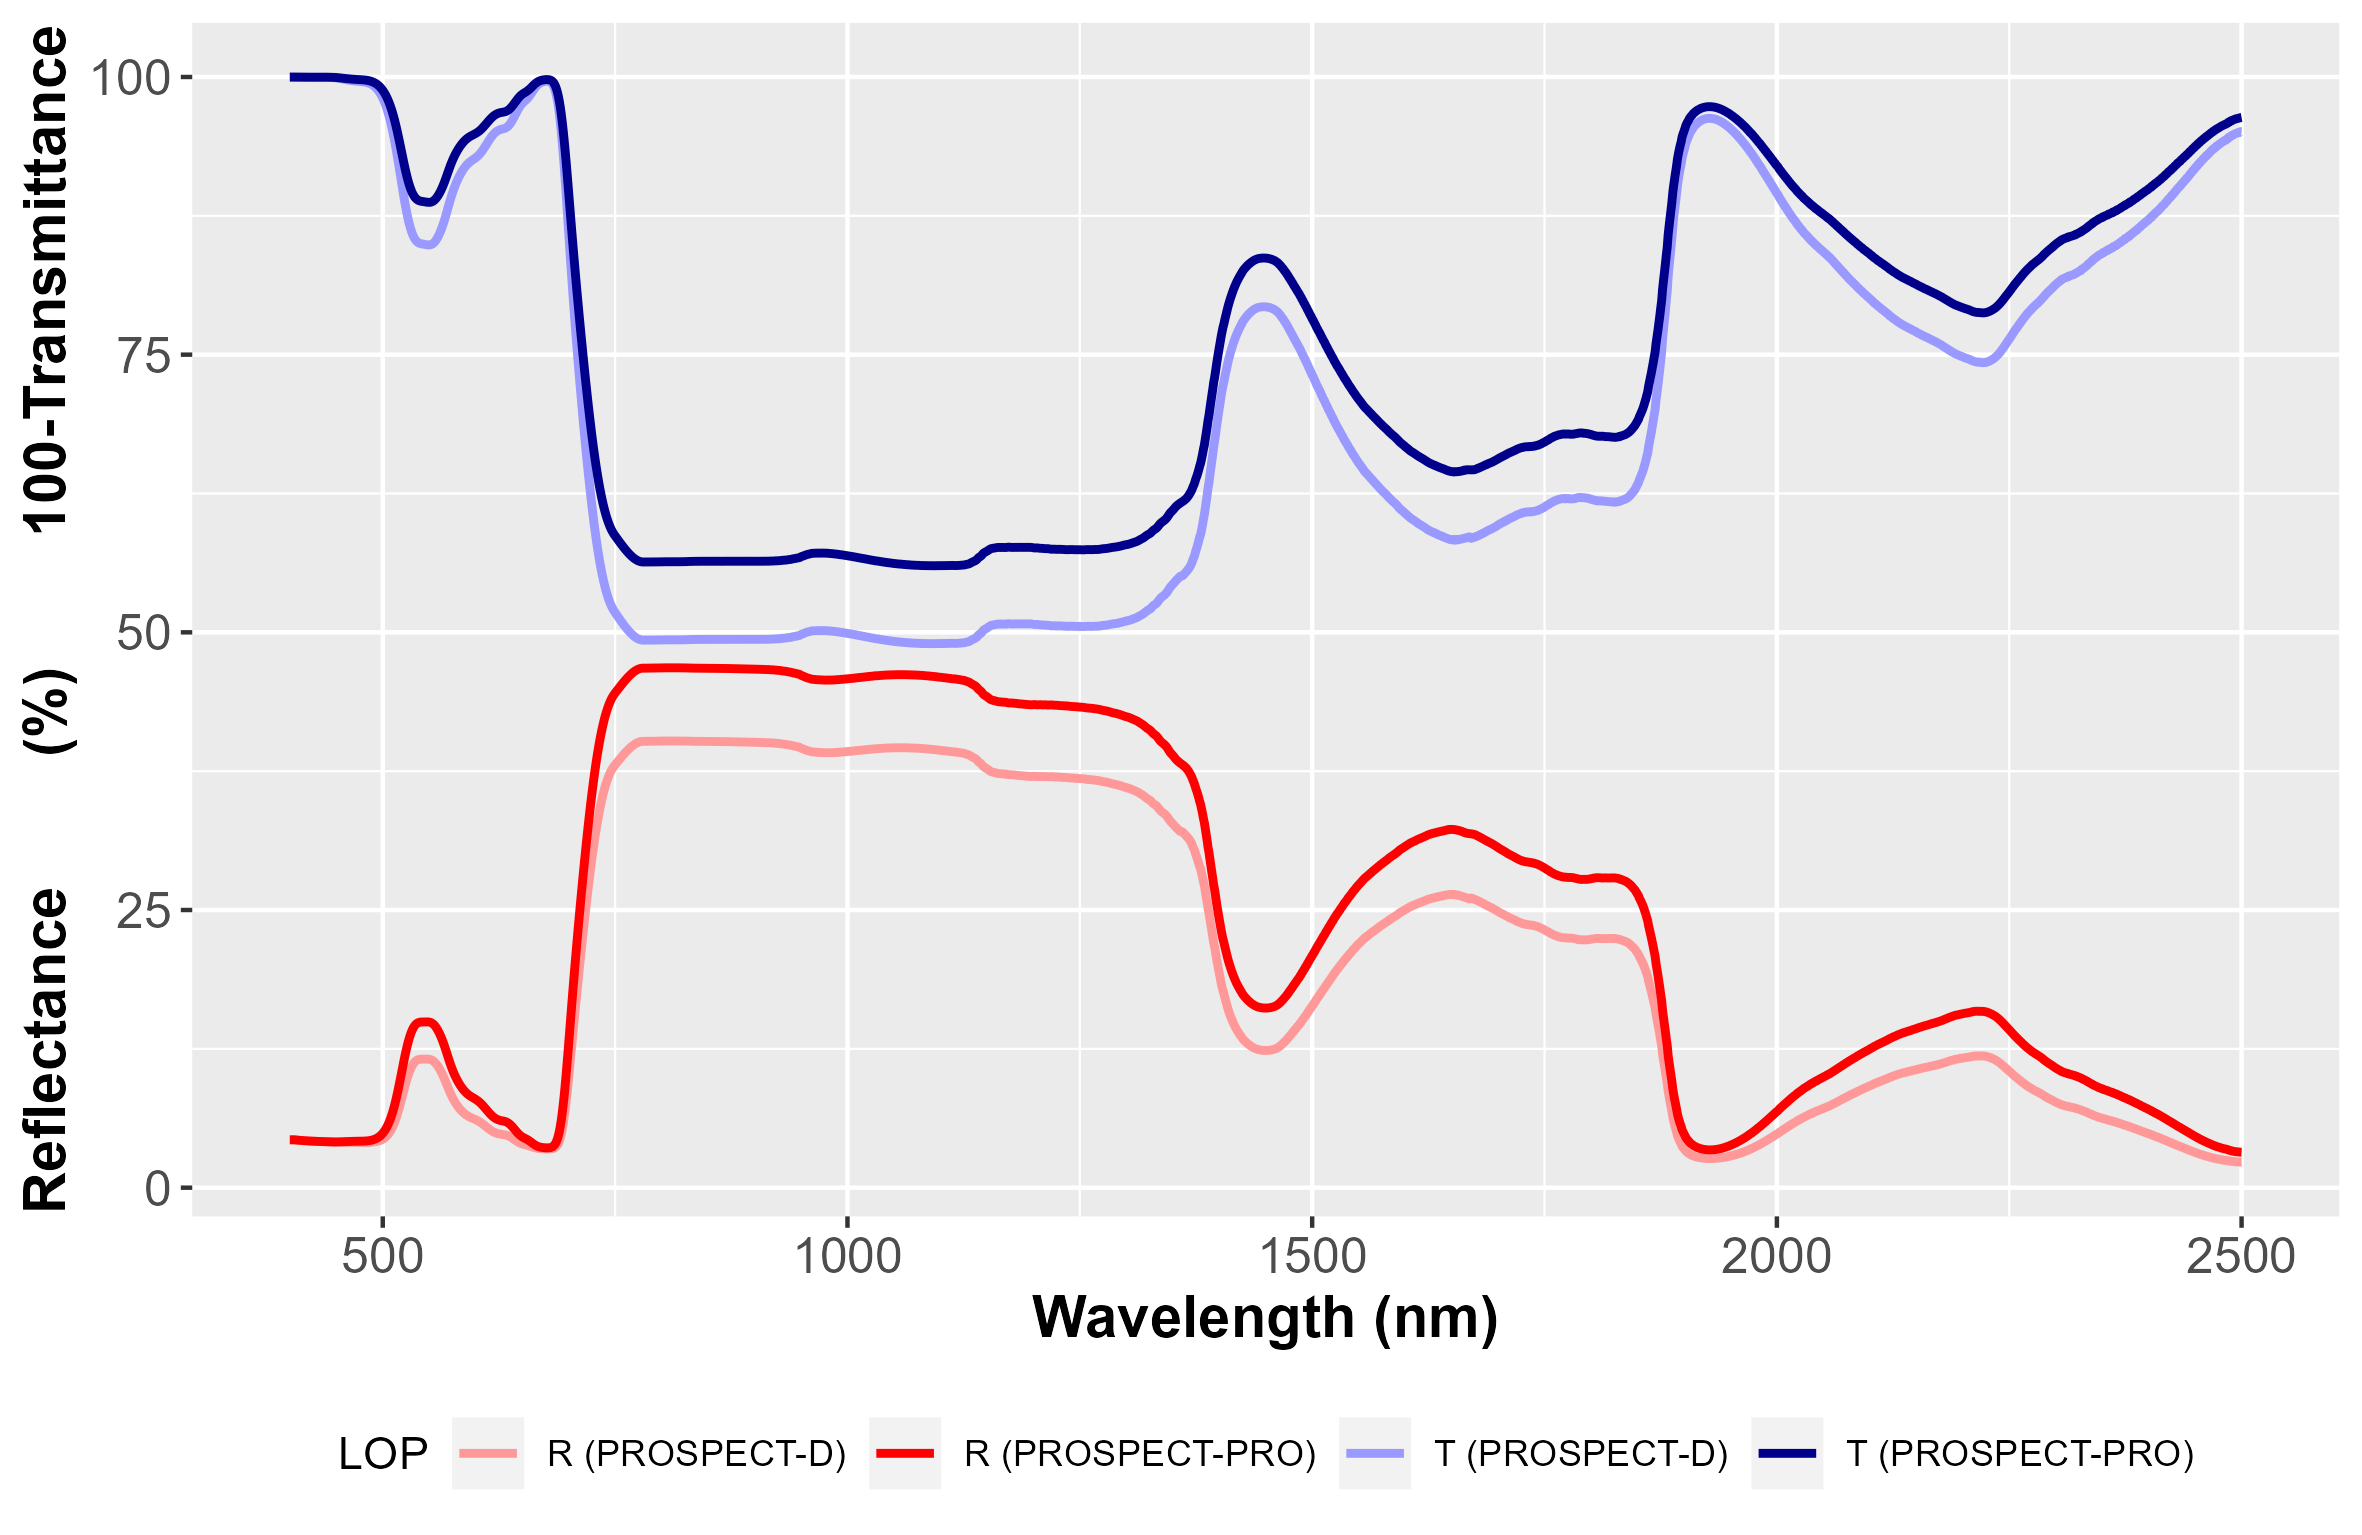
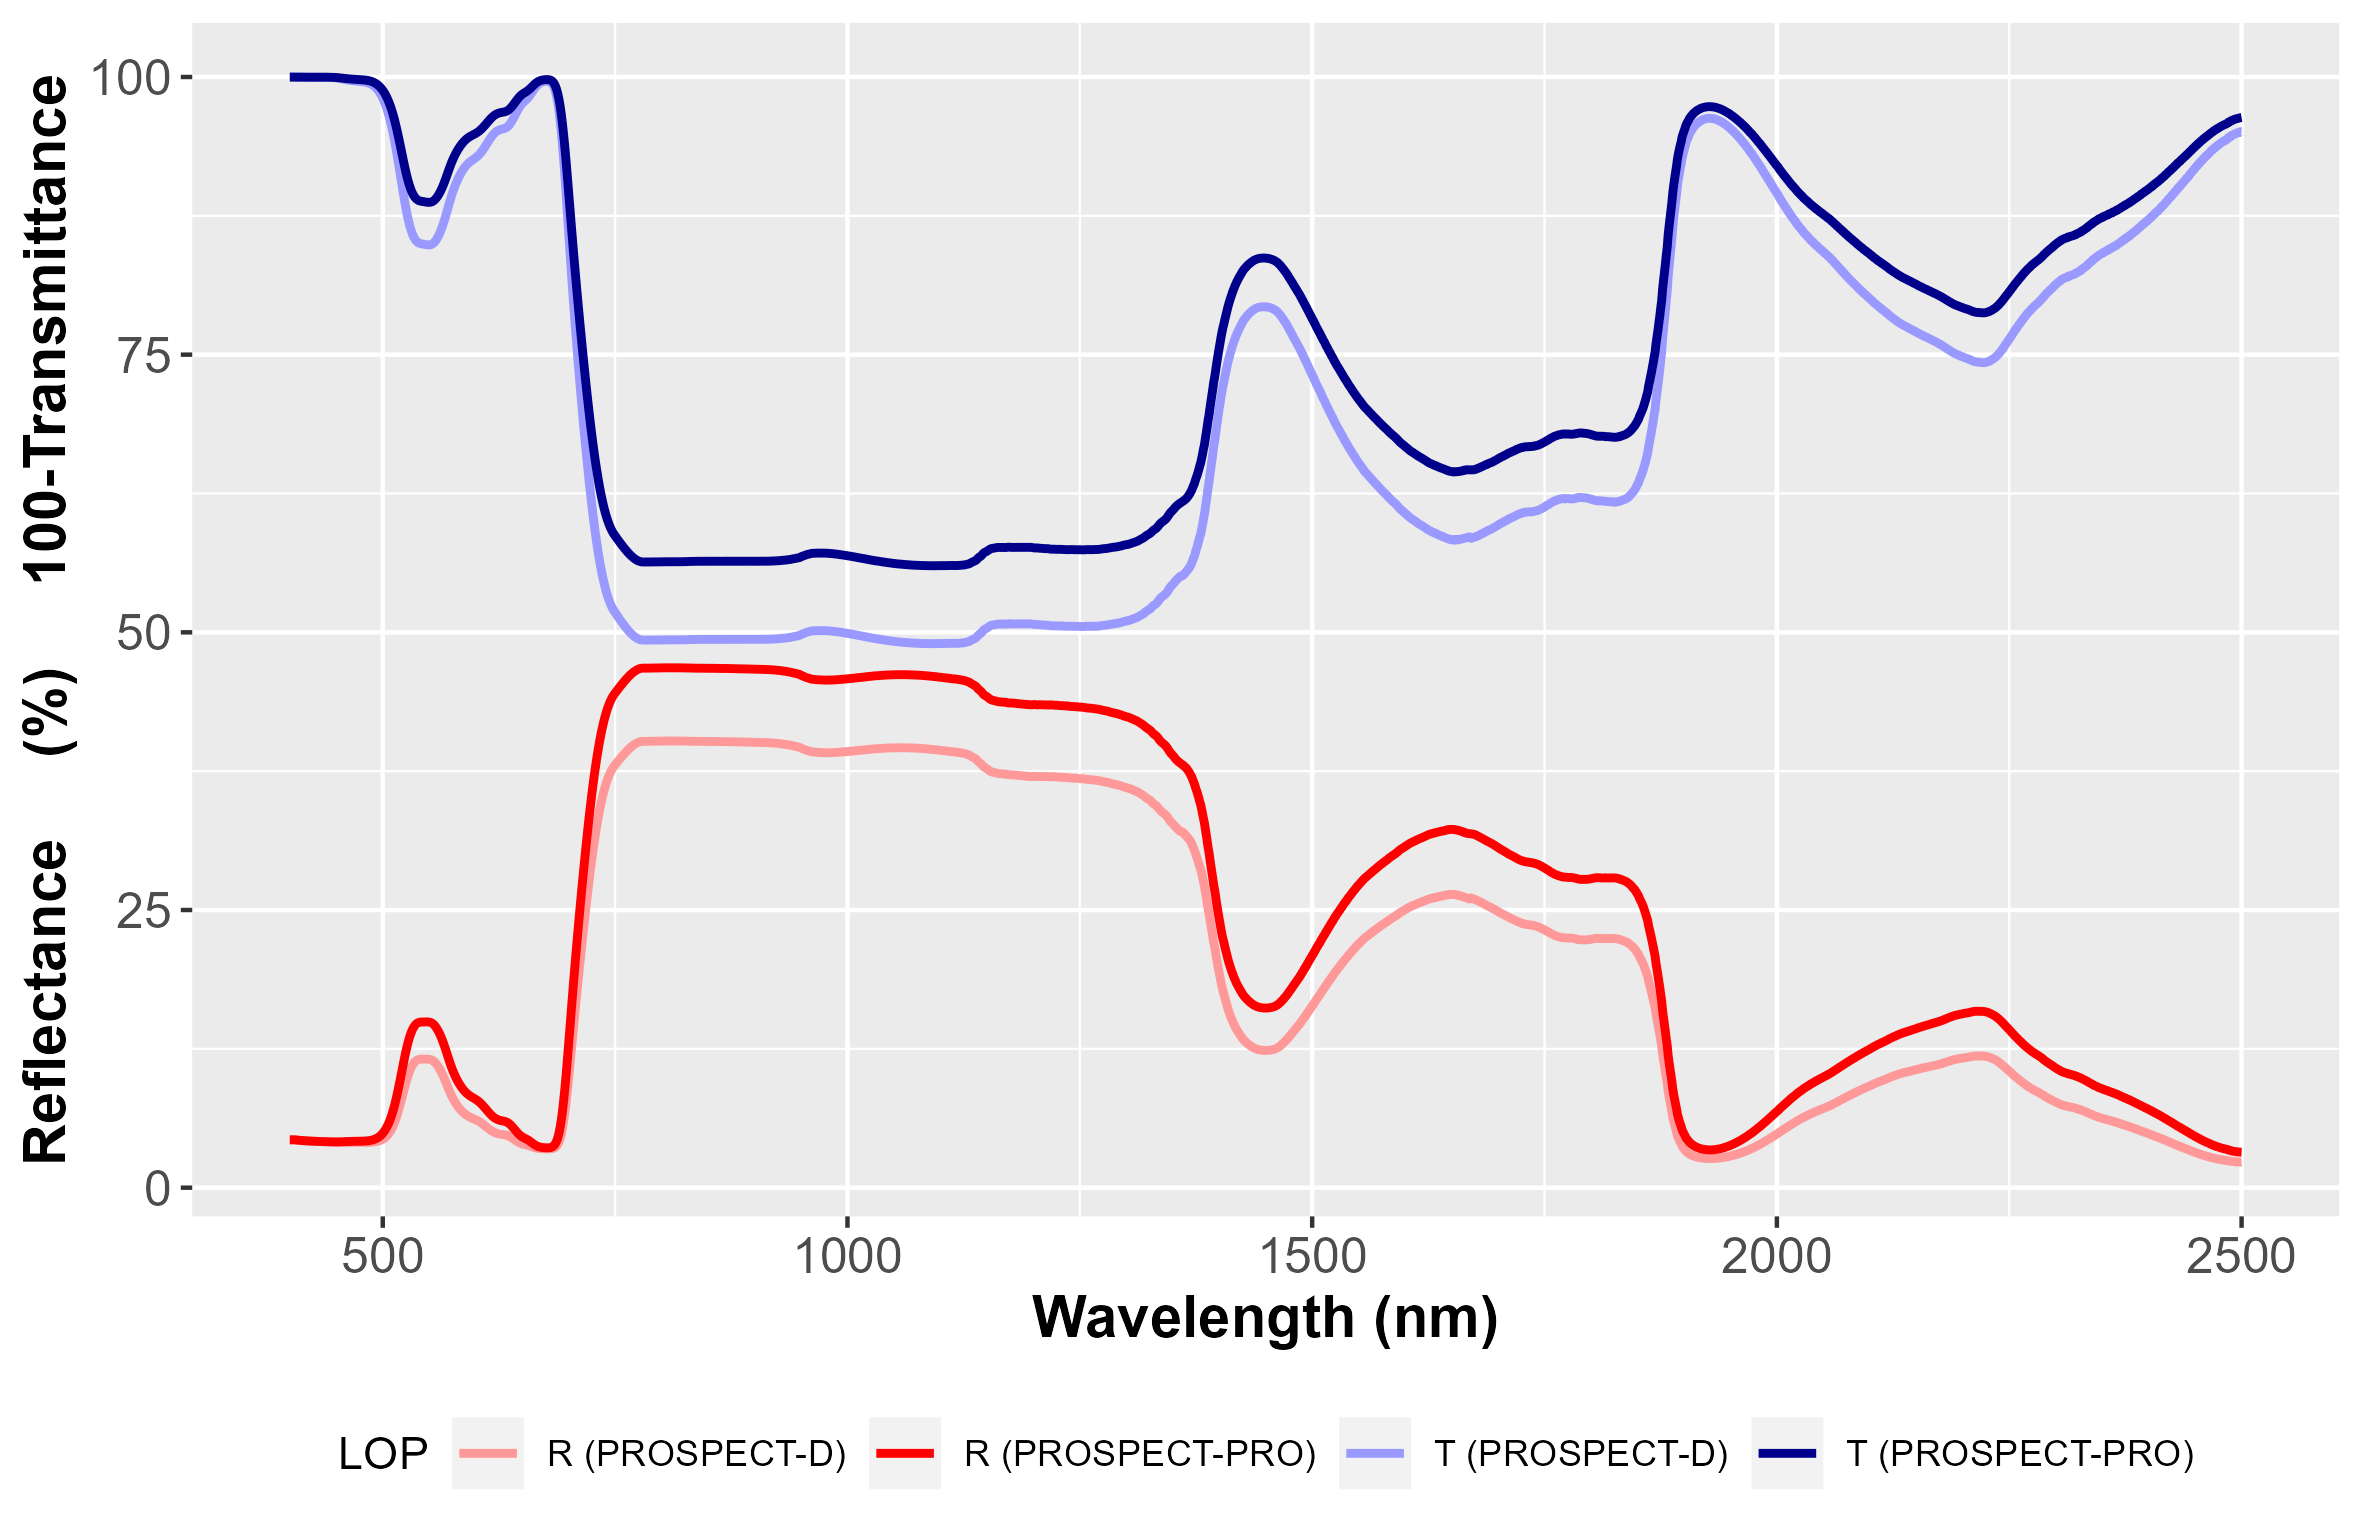
update paper

Changed region(s): [[0.0, 0.0, 0.0309, 0.398], [0.0, 0.5511, 0.0309, 0.7961]]

diff --git a/paper/paper.md b/paper/paper.md
@@ -107,15 +107,15 @@ functions with nonlinear constraints.
 Table \ref{table:2} provides information on the optimal spectral range used to estimate leaf 
 chemical constituents from their optical properties, as identified by [@feret2019; @spafford2021].
 
-| Constituent 	|    Optimal spectral domain 	|                 Versions           	|
-|------------	|-----------------------------	|:----------------------------------:	|
-| CHL       	|           700 -- 720       	| `5`, `5B`, `D`, `DB`, `PRO`, `PROB`	|
-| CAR       	|           520 -- 560        	| `5`, `5B`, `D`, `DB`, `PRO`, `PROB`	|
-| ANT       	|           400 -- 800       	| `D`, `DB`, `PRO`, `PROB`          	|
-| BROWN     	|               NA           	| NA                                	|
-| EWT       	|          1700 -- 2400       	| `5`, `5B`, `D`, `DB`, `PRO`, `PROB`	|
-| LMA       	|          1700 -- 2400       	| `5`, `5B`, `D`, `DB`               	|
-| PROT      	| 2100 -- 2139 ; 2160 -- 2179 	| `PRO`, `PROB`                      	|
+| Constituent 	|    Optimal spectral domain 	|            Versions     	|
+|------------	|-----------------------------	|:-----------------------:	|
+| CHL       	|           700 -- 720       	| `D`, `DB`, `PRO`, `PROB`	|
+| CAR       	|           520 -- 560        	| `D`, `DB`, `PRO`, `PROB`	|
+| ANT       	|           400 -- 800       	| `D`, `DB`, `PRO`, `PROB` 	|
+| BROWN     	|               NA           	| NA                       	|
+| EWT       	|          1700 -- 2400       	| `D`, `DB`, `PRO`, `PROB`	|
+| LMA       	|          1700 -- 2400       	| `D`, `DB`               	|
+| PROT      	| 2100 -- 2139 ; 2160 -- 2179 	| `PRO`, `PROB`            	|
 | CBC       	| 1480 -- 1499;	1560 -- 1579;	 1760 -- 1799; 2040 -- 2059;	 2120 -- 2139; 2160 -- 2239;	 2260 -- 2279; 2340 -- 2359;	 2380 -- 2399 	| `PRO`, `PROB`                      	|
 
 : Optimal spectral domains selected to estimate vegetation chemical constituents from leaf 
@@ -143,15 +143,12 @@ carbon based constituents (CBC) are not defined.
 ```r
 # Load prospect package
 library(prospect)
-
 # Run PROSPECT-D
 LRT_D <- PROSPECT(SpecPROSPECT, CHL = 45, CAR = 10, ANT = 0.2, 
                   EWT = 0.012, LMA = 0.010, N = 1.3)
 ```
 
-In this second example, as proteins and CBC are defined, PROSPECT-PRO is called. If user also defines a non-null 
-value for LMA in addition to PROT and CBC, the value of LMA is automatically set to 0, as PROSPECT-PRO does not 
-use LMA as input value. A warning is then displayed. 
+In this second example, PROSPECT-PRO is used as proteins and CBC are defined.  
 
 ```r
 # Run PROSPECT-PRO
@@ -163,48 +160,34 @@ The leaf optical properties can then be compared. Here, the differences between 
 are mainly driven by the difference set for the `N` parameter.
 
 ```r
-R_D <- data.frame('wvl' = LRT_D$wvl,
-                  'RT' = 100*LRT_D$Reflectance,
-                  'LOP' = matrix('R (PROSPECT-D)',
-                                 nrow = length(LRT_D$Reflectance),ncol = 1))
-
-T_D <- data.frame('wvl' = LRT_D$wvl,
-                  'RT' = 100*(1-LRT_D$Transmittance),
-                  'LOP' = matrix('T (PROSPECT-D)',
-                                 nrow = length(LRT_D$Transmittance),ncol = 1))
-
-R_PRO <- data.frame('wvl' = LRT_PRO$wvl,
-                    'RT' = 100*LRT_PRO$Reflectance,
-                    'LOP' = matrix('R (PROSPECT-PRO)',
-                                   nrow = length(LRT_PRO$Reflectance),ncol = 1))
-
-T_PRO <- data.frame('wvl' = LRT_PRO$wvl,
-                    'RT' = 100*(1-LRT_PRO$Transmittance),
-                    'LOP' = matrix('T (PROSPECT-PRO)',
-                                   nrow = length(LRT_PRO$Transmittance),ncol = 1))
-
+R_D <- data.frame('wvl' = LRT_D$wvl, 'RT' = 100*LRT_D$Reflectance,
+                  'LOP' = 'R (PROSPECT-D)')
+T_D <- data.frame('wvl' = LRT_D$wvl, 'RT' = 100*(1-LRT_D$Transmittance),
+                  'LOP' = 'T (PROSPECT-D)')
+R_PRO <- data.frame('wvl' = LRT_PRO$wvl, 'RT' = 100*LRT_PRO$Reflectance,
+                    'LOP' = 'R (PROSPECT-PRO)')
+T_PRO <- data.frame('wvl' = LRT_PRO$wvl, 'RT' = 100*(1-LRT_PRO$Transmittance),
+                    'LOP' = 'T (PROSPECT-PRO)')
 LRT_df <- rbind(R_D, T_D, R_PRO, T_PRO)
 
+# plot reflectance and transmittance for both models
 library(ggplot2)
-plot <- ggplot2::ggplot(LRT_df, aes(x=wvl, y=RT, group=LOP)) +
+RTplot <- ggplot2::ggplot(LRT_df, aes(x=wvl, y=RT, group=LOP)) +
   geom_line(aes(linetype=LOP, color=LOP),linewidth=1.00)+
   scale_color_manual(values=c('#FF9999','red1','#9999FF','blue4'))+
   scale_size_manual(values=c(5, 5))+
-  labs(x='Wavelength (nm)',y='Reflectance        (%)        100-Transmittance') +
-  theme(legend.position="bottom",
-        axis.text=element_text(size=12),
+  labs(x='Wavelength (nm)',y='Reflectance     (%)     100-Transmittance') +
+  theme(legend.position = "bottom",
+        axis.text = element_text(size=12),
         axis.title.x = element_text(size=14, face="bold"),
         axis.title.y = element_text(size=14, face="bold")) +
   scale_linetype_manual(values=c("solid","solid","solid","solid"))
 
 filename = 'compare_RT_PROSPECT_PRO_D.png'
-ggsave(filename, plot = last_plot(), device = "png", path = NULL,
-       scale = 1, width = 20, height = 13, units = "cm",
-       dpi = 600)
+ggsave(filename, plot = RTplot, device = "png", path = NULL,
+       scale = 1, width = 20, height = 13, units = "cm", dpi = 300)
 ```
-![Leaf optical properties simulated with PROSPECT-D and PROSPECT-PRO. different values of 
-N were defined to highlight differences in simulated leaf optics]
-(compare_RT_PROSPECT_PRO_D.png){ width=85% }
+![Leaf optical properties simulated with PROSPECT-D and PROSPECT-PRO. Different values of N were defined to highlight differences in simulated leaf optics \label{fig:AIM}](compare_RT_PROSPECT_PRO_D.png){ width=85% }
 
 
 ## Simulation of a look up table with PROSPECT-D
@@ -277,16 +260,16 @@ This can be done automatically using `FitSpectralData`
 
 ```r
 # Adjust spectral domain for SpecPROSPECT to fit leaf optical properties 
-SubData <- FitSpectralData(SpecPROSPECT = SpecPROSPECT,                         # spectral properties over 400-2500 nm
-                           lambda = lambda,                                     # spectral bands corresponding to refl and Tran
-                           Refl = Refl,                                         # Reflectance data (matrix or dataframe)
-                           Tran = Tran,                                         # Transmittance data (matrix or dataframe)
-                           UserDomain = lambda)                                 # spectral domain of interest
+SubData <- FitSpectralData(SpecPROSPECT = SpecPROSPECT, # spectral properties
+                           lambda = lambda, # spectral bands
+                           Refl = Refl, # Reflectance data (matrix or dataframe)
+                           Tran = Tran, # Transmittance data (matrix or dataframe)
+                           UserDomain = lambda) # spectral domain of interest
 						   
-SubSpecPROSPECT <- SubData$SpecPROSPECT                                         # spectral properties adjusted to current data
-Sublambda <- SubData$lambda                                                     # updated spectral domain defined by UserDomain
-SubRefl <- SubData$Refl                                                         # updated reflectance domain defined by UserDomain
-SubTran <- SubData$Tran                                                         # updated transmittance defined by UserDomain
+SubSpecPROSPECT <- SubData$SpecPROSPECT # spectral properties adjusted to current data
+Sublambda <- SubData$lambda # updated spectral domain defined by UserDomain
+SubRefl <- SubData$Refl # updated reflectance domain defined by UserDomain
+SubTran <- SubData$Tran # updated transmittance defined by UserDomain
 ```
 
 The main inversion procedure is called with the function `Invert_PROSPECT`.
@@ -299,18 +282,10 @@ be defined in `Parms2Estimate`. The value set for parameters which are not estim
 with the `InitValues` input variable. 
 
 ```r
-# Estimate all parameters using PROSPECT-D inversion applied to full spectral data
-PROSPECT_version <- 'D'
-Parms2Estimate  <- 'ALL'
-InitValues <- data.frame(CHL = 40, CAR = 10, ANT = 0.1, BROWN = 0, 
-                         EWT = 0.01, LMA = 0.01, N = 1.5)
-
+# Estimate all parameters using PROSPECT inversion applied to full spectral data
 res_all_WL <- Invert_PROSPECT(SpecPROSPECT = SubSpecPROSPECT, 
-                       Refl = SubRefl, 
-                       Tran = SubTran, 
-                       PROSPECT_version = PROSPECT_version,
-                       Parms2Estimate = Parms2Estimate, 
-                       InitValues = InitValues)
+                              Refl = SubRefl, 
+                              Tran = SubTran)
 ```
 
 ## PROSPECT inversion using the optimal spectral domains specific to each constituent
@@ -321,20 +296,18 @@ and the function automatically adjusts the spectral domain of the leaf optical p
 by user. 
 
 ```r
-# Estimate a selection of parameters using PROSPECT-D inversion applied on optimal spectral domains
+# Estimate a set of parameters using PROSPECT inversion with optimal spectral domains
 Parms2Estimate  <- c('CHL', 'CAR', 'EWT', 'LMA')
 res_opt_WL <- Invert_PROSPECT_OPT(SpecPROSPECT = SpecPROSPECT, 
                                   lambda = lambda, 
                                   Refl = Refl, 
-                                  Tran = Tran, 
-                                  PROSPECT_version = PROSPECT_version,
-                                  Parms2Estimate = Parms2Estimate, 
-                                  InitValues = InitValues)
+                                  Tran = Tran,
+                                  Parms2Estimate = Parms2Estimate)
 ```
 
 ## Comparing performances of the two types of inversion with experimental data
 
-The outputs of the inversion can then be plotted and compared with scatterplots
+The outputs of the inversion can then be plotted and compared with scatterplots.
 
 ```r
 # define axis labels for each leaf chemical constituent
@@ -366,16 +339,15 @@ plotALL <- gridExtra::grid.arrange(plotBP$CHL, plotBP$CAR,
 ggsave(filename = 'PROSPECT_Inversions.png', plot = plotALL, device = "png", 
        scale = 1, width = 24, height = 24, units = "cm", dpi = 300)
 ```
-![Estimation of chlorophyll content, carotenoid content, EWT and LMA from PROSPECT inversion applied on the ANGERS dataset. 
-full WL corresponds to the inversion performed with the full spectral information; 
-opt WL corresponds to the inversion performed with the optimal spectral information](PROSPECT_Inversions.png){ width=60% }
 
+
+![Estimation of chlorophyll content, carotenoid content, EWT and LMA from PROSPECT inversion applied on the ANGERS dataset. full WL corresponds to the inversion performed with the full spectral information; opt WL corresponds to the inversion performed with the optimal spectral information](PROSPECT_Inversions.png){ width=80% }
 
 # Conclusion
 
 We have described `prospect`, an R package dedicated to the PROSPECT leaf model. 
 `prospect` can run different versions of the model in direct mode, in order to simulate 
-directional-hemispherical reflectance and transmittance or LUTs. 
+directional-hemispherical reflectance and transmittance for individual leaves or LUTs.
 `prospect` also include a selection of inversion procedures based on iterative optimization, 
 in order to estimate leaf structure and chemical constituent content either from 
 directional-hemispherical reflectance and transmittance, or from reflectance or transmittance only. 
